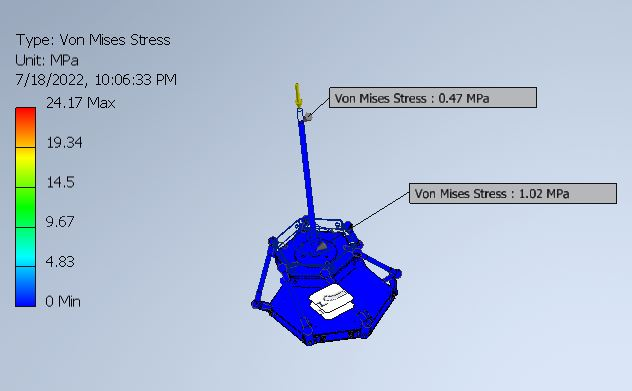
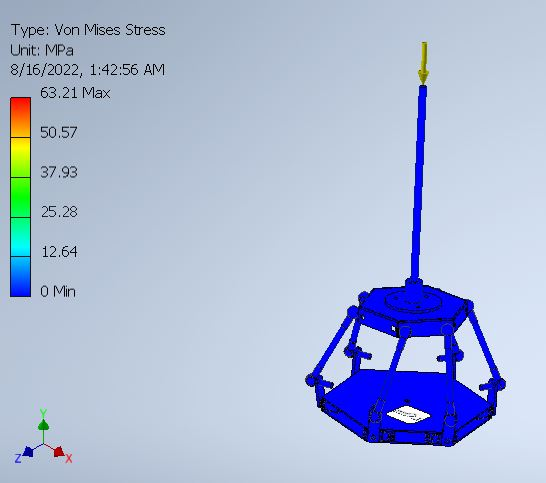
Updated Results

diff --git a/interim-report/Files/Chapter3.tex b/interim-report/Files/Chapter3.tex
@@ -439,13 +439,23 @@ The Servo motor \textbf{TowerPro SG5010} is suitable for this project. The speci
 \end{tabular}
 \end{center}
 Prices range between \textbf{Ksh.700} and \textbf{Ksh.1400}.
+\section{Finite Element Analysis}
+A Finite Element Analysis was done on the Stewart platform design to determine its performance under given loads. The platform is going to be subjected to a force during wind tunnel testing. A maximum load of 50N is selected for the Finite Element Analysis. This could be more or less since models vary in size. The z-component of the force is considered.
+\begin{center}
+	\begin{figure}[!htb]
+	\centering
+	\includegraphics[width=0.75\linewidth]{Figures/Von}
+	\caption[Von Mise's Stress]{Von Mise's Stress}
+	\end{figure}
+\end{center}
+The rods/legs of the Stewart platform are subjected to axial forces which cause slight strains which can be used to obtain force and moment measurements during wind tunnel testing.
 \section{Design of the Force Sensor}
 The force sensor module will be used to measure the force and moments from the aerodynamic loads applied on model being tested in the wind tunnel. The forces to be measured are the drag, lift and thrust as well as associated moments. For this subsystem two possible conceptual designs are to be considered:
 \begin{itemize}
 \item External force sensor
 \item Stewart Platform as a force sensor
 \end{itemize}
-\subsection{External Force Sensor}
+\section{External Force Sensor}
 In this case it would require at least 3 orthogonally positioned load cells measuring each force component. Each load cell would be mechanically linked to the model such that forces experienced on each axis are measured by each load cell. 
 \begin{center}
 	\begin{figure}[H]

diff --git a/interim-report/Files/Chapter4.tex b/interim-report/Files/Chapter4.tex
@@ -69,13 +69,6 @@ Stewart Platform simulation was done on MatLab using the Inverse kinematics equa
 \subsection{Finite Element Analysis on Stewart Platform}
 Finite Element Analysis was done on FEA environment in Autodesk inventor. A maximum possible model weight of 50N was applied on the platform. 
 A ststic analysis test was performed and the following results were obtained:
-\begin{center}
-	\begin{figure}[!htb]
-	\centering
-	\includegraphics[width=0.75\linewidth]{Figures/Von}
-	\caption[Von Mise's Stress]{Von Mise's Stress}
-	\end{figure}
-\end{center}
 \begin{table}[!h]
 \caption{FEA Results}
 \end{table}
